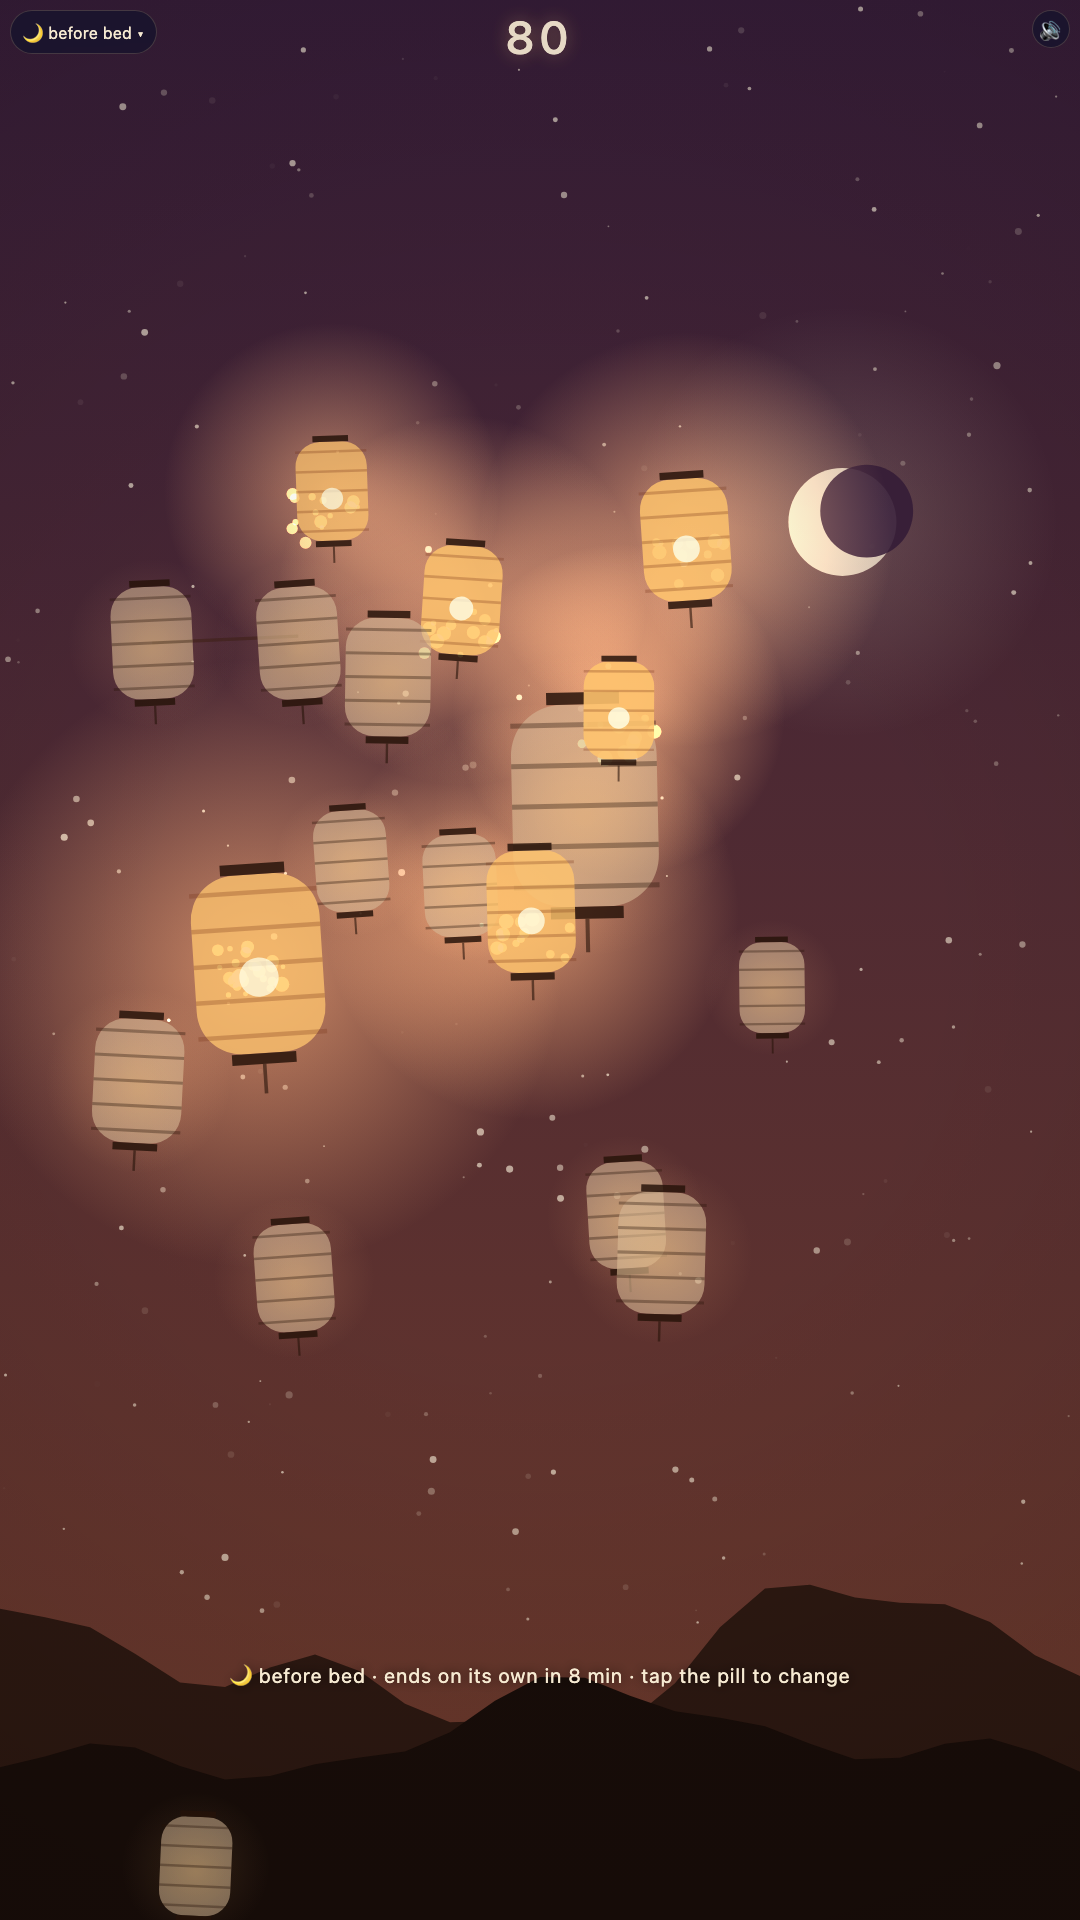
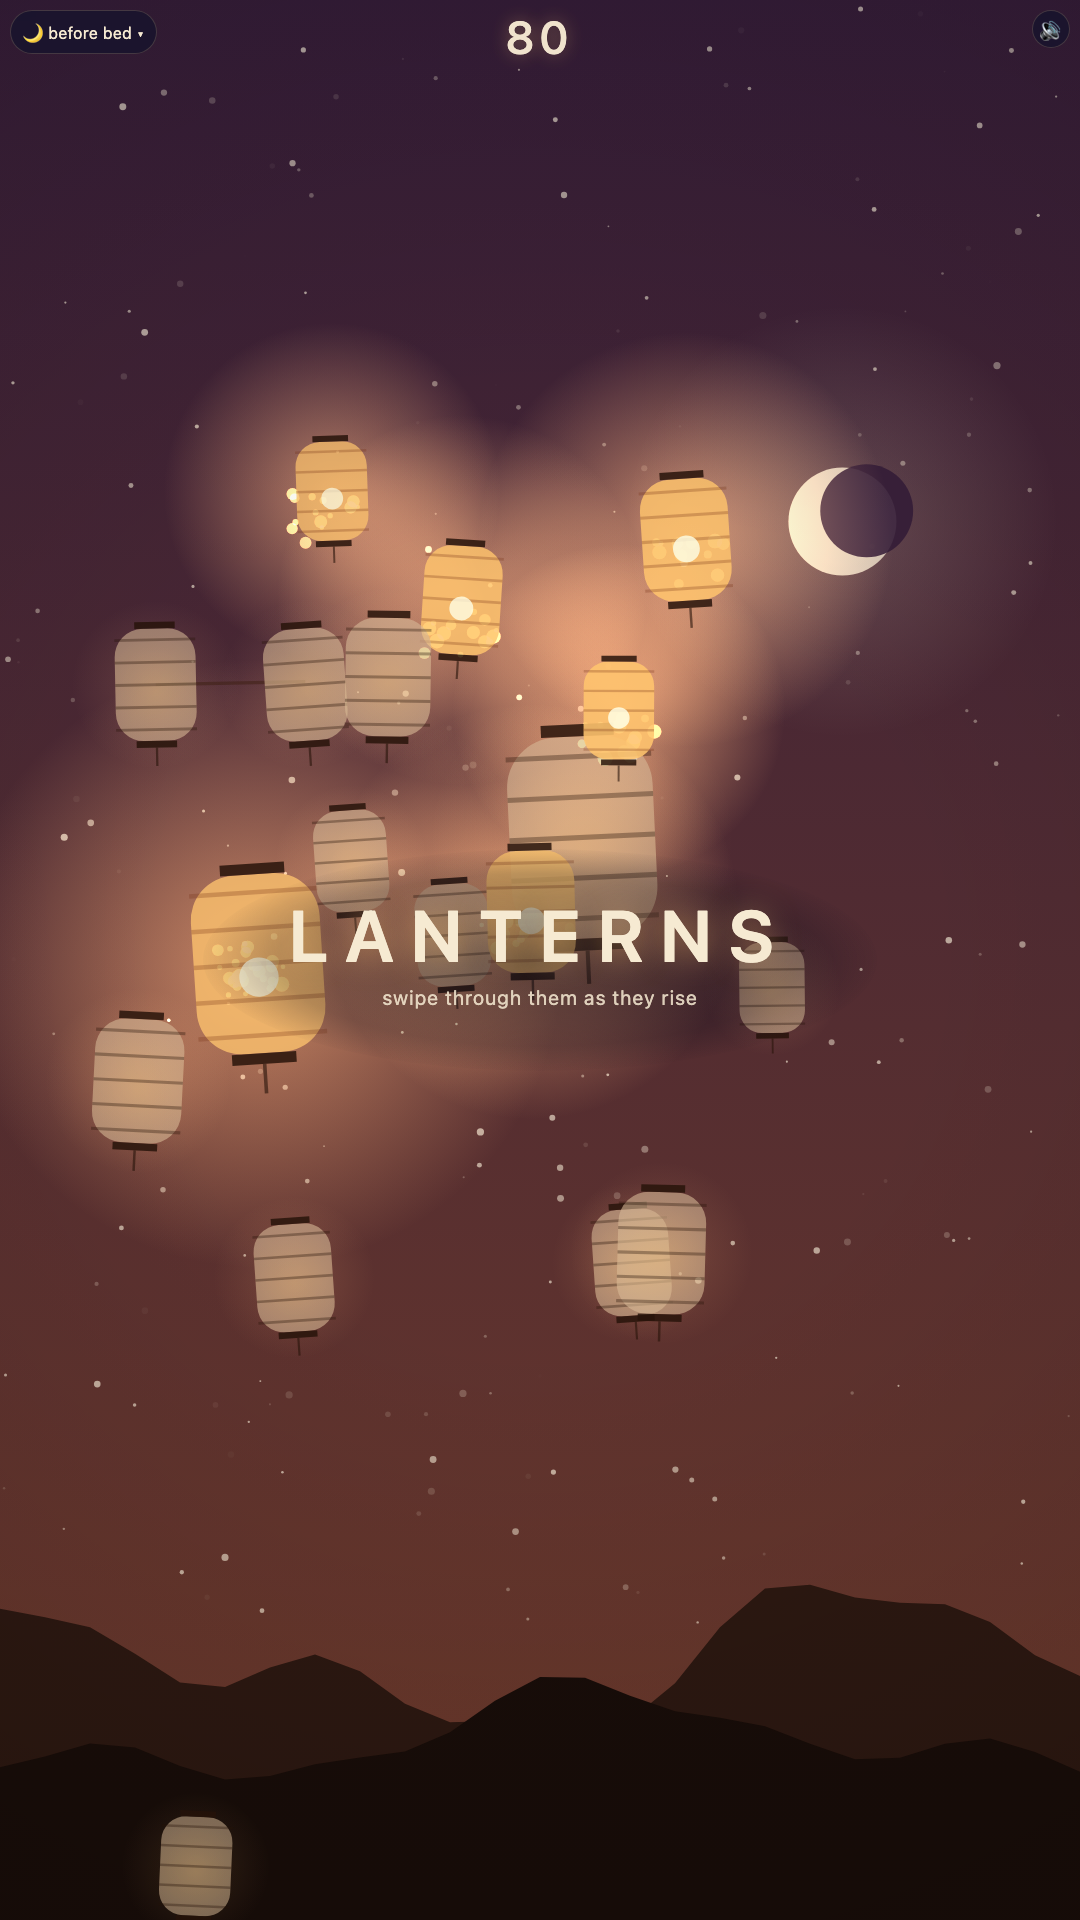
Covers keep the title; toast hidden on covers
Claude-Session: https://claude.ai/code/session_016hcy1KAXpWd3HHwHcXagZz

diff --git a/index.html b/index.html
@@ -244,7 +244,7 @@ function update(dt){ const p=progress(); spawnAcc+=dt;
   if(shake>0) shake=Math.max(0,shake-dt*14);
   if(ghost.on){ ghost.t+=dt; if(ghost.t>4.2) ghost.on=false; }
   else if(ghost.want){ const L=lanterns.find(L=>!L.lit&&!L.gone&&!L.settled&&L.y<H*0.72); if(L){ ghost={on:true,t:0,x:L.x,y:L.y-H*0.06,want:false}; store.set('lanterns.seen','1'); } }
-  if(titleEl.parentNode && !titleFading && (lit>0 || elapsed>9)){ titleFading=true; titleEl.style.opacity=0; setTimeout(()=>titleEl.remove(),1700); }
+  if(!QA.title && titleEl.parentNode && !titleFading && (lit>0 || elapsed>9)){ titleFading=true; titleEl.style.opacity=0; setTimeout(()=>titleEl.remove(),1700); }
   audio.tuneDrone(p);
   // ending: timed moods end once the timer is up and the last unlit lanterns are gone or lit
   if(cfg.len && elapsed>=cfg.len && !ended){ ended=true; }
@@ -309,7 +309,7 @@ function startRound(){ cancelAnimationFrame(raf); cancelAnimationFrame(idleRaf);
   t0=performance.now(); elapsed=0; running=true; paused=false;
   missesEl.innerHTML=''; if(cfg.fail){ for(let i=0;i<cfg.fail;i++) missesEl.appendChild(document.createElement('i')); }
   hud.style.opacity=0.92; hud.style.transform='none'; endCard.classList.add('hidden'); picker.classList.add('hidden'); CG.banner(false);
-  if(cfg.feel) say(`${cfg.label} · ends on its own in ${Math.round(cfg.len/60)} min · tap the pill to change`, 3200);
+  if(cfg.feel && !QA.title) say(`${cfg.label} · ends on its own in ${Math.round(cfg.len/60)} min · tap the pill to change`, 3200);
   CG.gameplayStart(); raf=requestAnimationFrame(step); }
 function finish(){ running=false; paused=false; stroke=null; cancelAnimationFrame(raf); rounds++; CG.gameplayStop(); const newBest = score>best; if(newBest){ best=score; store.set('lanterns.best',best); }
   if(!happy && newBest && rounds>1){ happy=true; CG.happytime(); }
